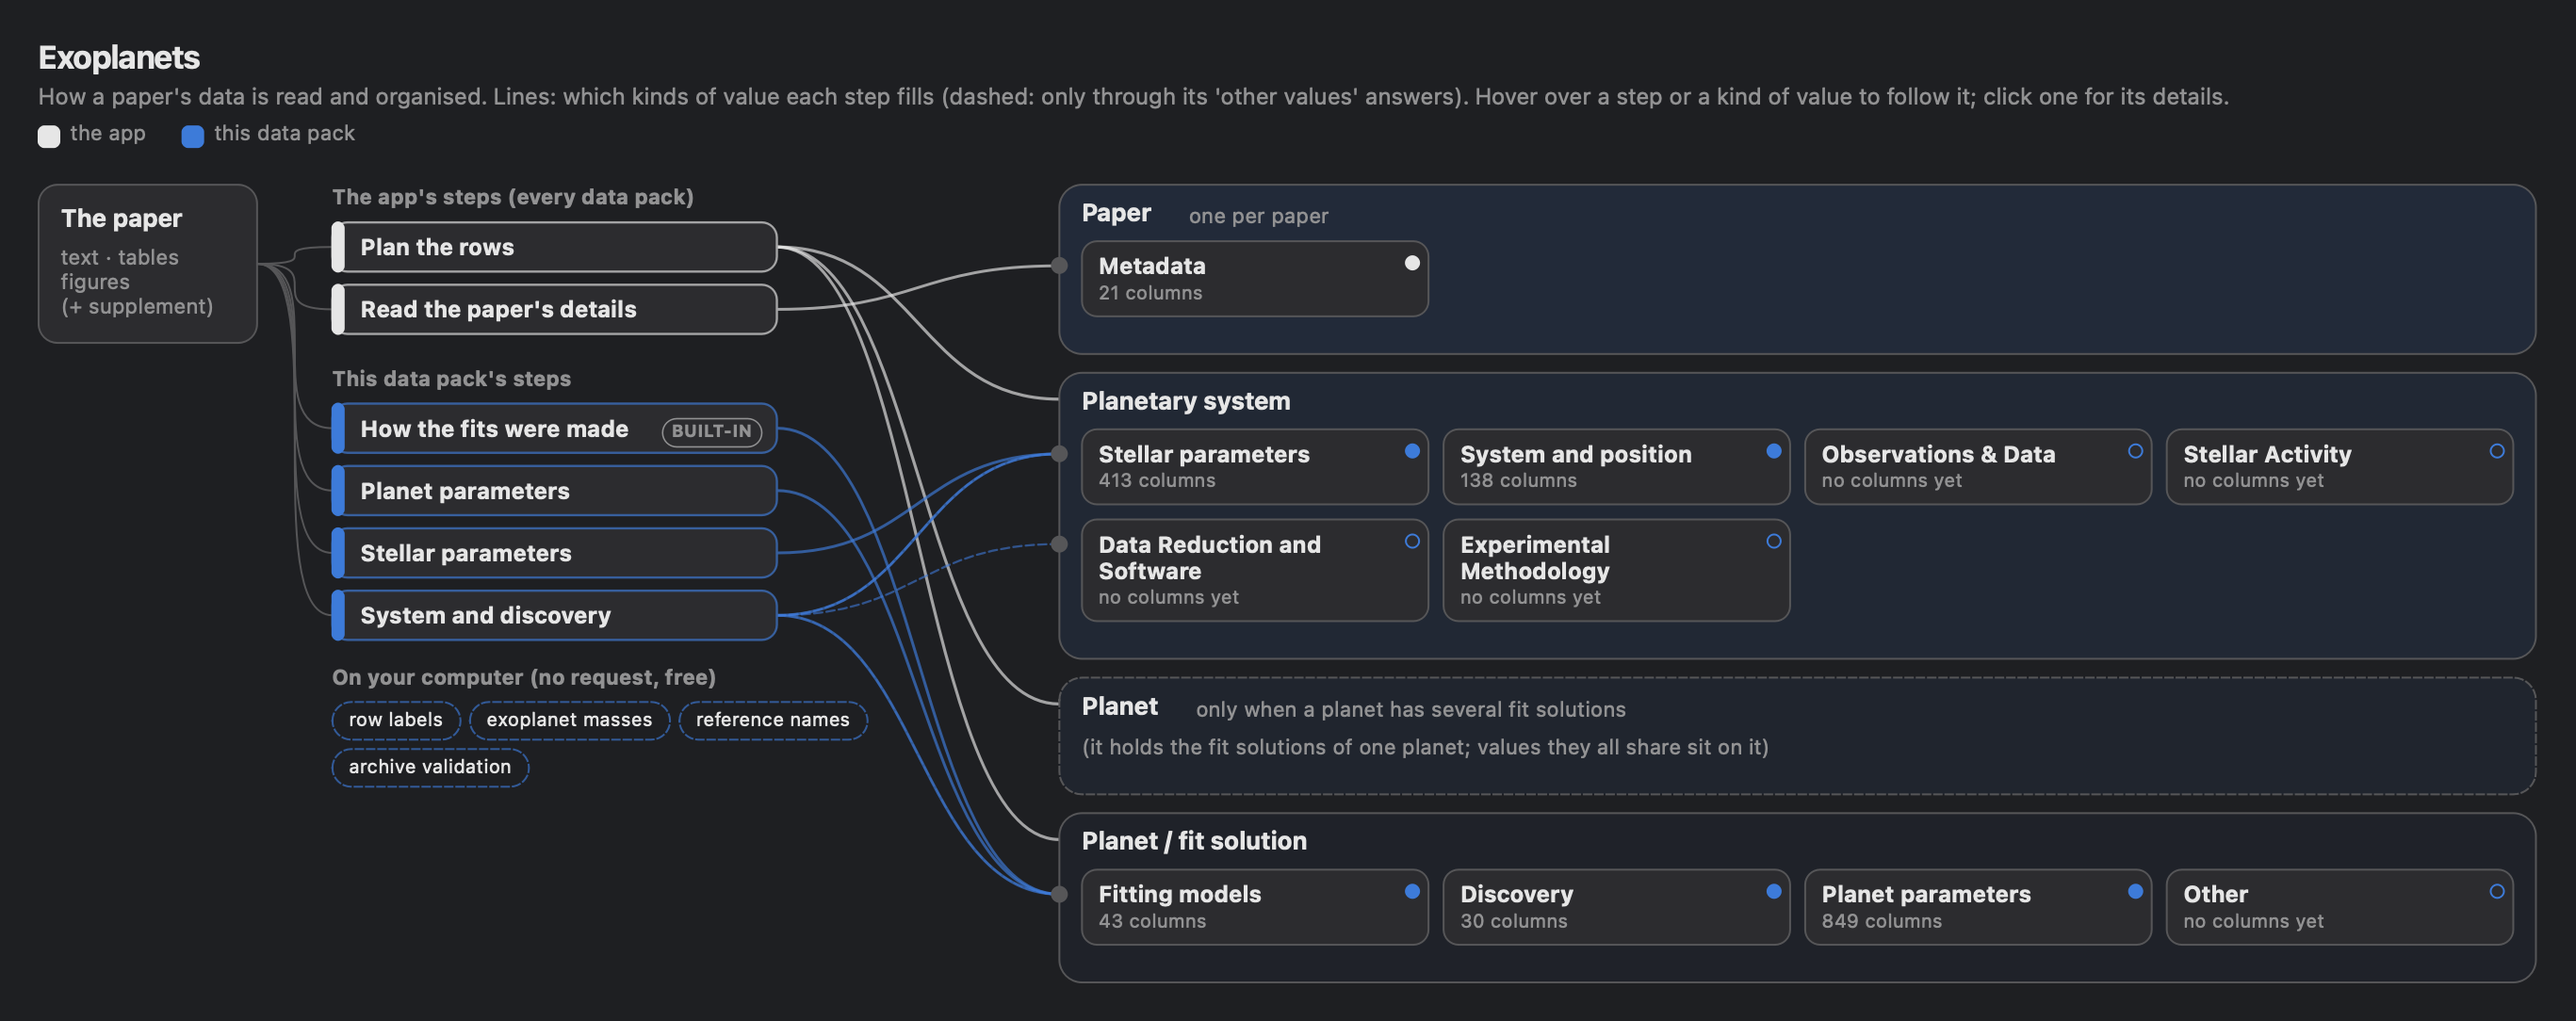
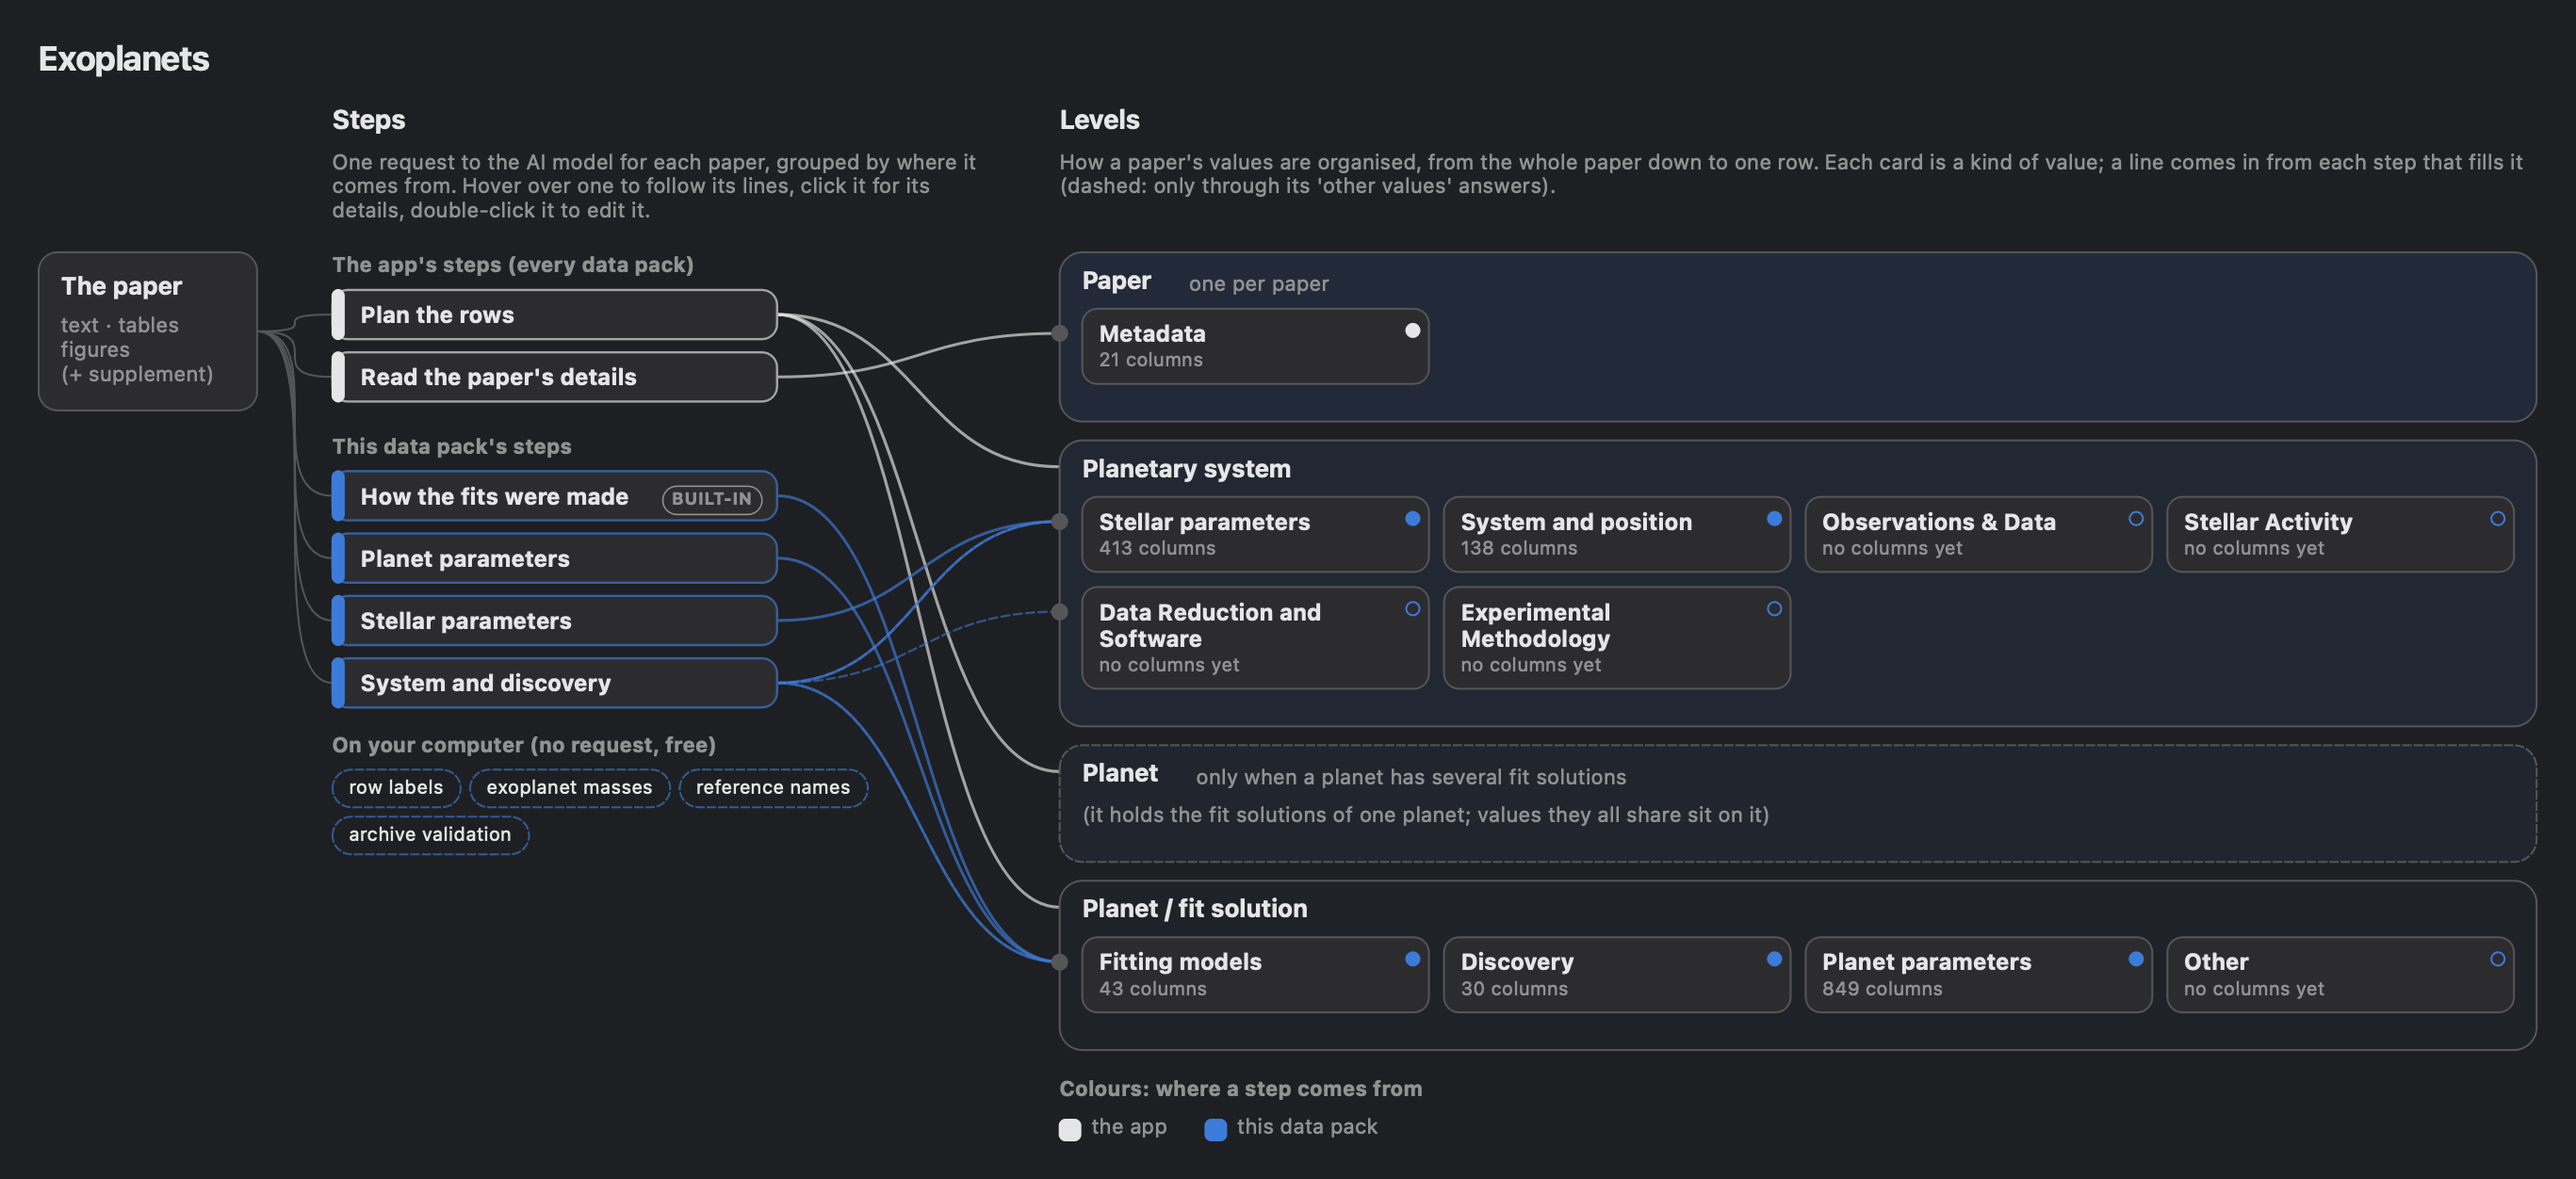
levels-and-facets: Map -- 'Steps' and 'Levels' headings with short descriptions over their columns, the colour legend under the levels

diff --git a/src/parameter_extractor/gui/structure_canvas.py b/src/parameter_extractor/gui/structure_canvas.py
@@ -285,6 +285,11 @@ class _Drawing:
             item.setData(TAGS, frozenset(tags))
 
 
+STEPS_HEAD = ("One request to the AI model for each paper, grouped by where it comes from. Hover over one to "
+              "follow its lines, click it for its details, double-click it to edit it.")
+LEVELS_HEAD = ("How a paper's values are organised, from the whole paper down to one row. Each card is a kind of "
+               "value; a line comes in from each step that fills it (dashed: only through its 'other values' "
+               "answers).")
 STEP_GROUPS = {"app": "The app's steps (every data pack)", "pack": "This data pack's steps",
                "modules": "From linked modules"}
 FILL_TEXT = {"set": "fills in per {set}", "paper": "fills in across the paper", "none": ""}
@@ -334,25 +339,18 @@ def build_scene(pack, palette: Optional[QPalette] = None, opened: Optional[Set[s
     d = _Drawing(scene)
     units = pack.manifest.units or {}
     set_word = units.get("set", "set")
-    width = COL_LANES + LANES_W
     sub_font, sub_h = _font(SUB_PT), QFontMetricsF(_font(SUB_PT)).height()
 
-    # title, what the picture shows, the colours' legend (wrapped to the picture's width)
-    y = d.lines([s.title], COL_PAPER, 0, text, 17, True)
-    y = d.lines(wrap("How a paper's data is read and organised. Lines: which kinds of value each step fills "
-                     "(dashed: only through its 'other values' answers). Hover over a step or a kind of value to "
-                     "follow it; click one for its details.", _font(11.5), width, MANY),
-                COL_PAPER, y + 4, muted, 11.5) + 6
-    x = COL_PAPER
-    for src in ["app", "pack"] + [k for k in colors if k not in ("app", "pack")]:
-        name = "the app" if src == "app" else "this data pack" if src == "pack" else f"module: {src}"
-        w = 18 + QFontMetricsF(_font(10.5)).horizontalAdvance(name) + 18
-        if x + w > width and x > COL_PAPER:
-            x, y = COL_PAPER, y + 20
-        d.box(QRectF(x, y + 3, 11, 11), colors[src], colors[src], radius=3)
-        d.text(name, x + 17, y, muted, 10.5)
-        x += w
-    top = y + 34
+    # the pack's name; over each column its title and what it shows (the same height, so both start level)
+    y = d.lines([s.title], COL_PAPER, 0, text, 18, True) + 14
+    head_font = _font(10.5)
+    heads = [(COL_STEPS, COL_LANES - 40 - COL_STEPS, "Steps", STEPS_HEAD),
+             (COL_LANES, LANES_W, "Levels", LEVELS_HEAD)]
+    wrapped = [wrap(about, head_font, w, MANY) for _x, w, _t, about in heads]
+    for (x, _w, title, _about), lines in zip(heads, wrapped):
+        d.text(title, x, y, text, 14, True)
+        d.lines(lines, x, y + 24, muted, 10.5)
+    top = y + 24 + max(len(lines) for lines in wrapped) * QFontMetricsF(head_font).height() + 16
 
     paper_rect = QRectF(COL_PAPER, top, PAPER_W, 84)
     d.box(paper_rect, card, line, 10).setData(TARGET, "paper")
@@ -495,6 +493,20 @@ def build_scene(pack, palette: Optional[QPalette] = None, opened: Optional[Set[s
                 ports.setdefault(round(port_y), set()).add(key)
             cy += row_h + CARD_GAP
         y += height + 10
+
+    # the colours: where a step comes from (under the levels, where the steps column is usually longer)
+    y += 4
+    d.text("Colours: where a step comes from", COL_LANES, y, muted, 10.5, True)
+    y += 20
+    x = COL_LANES
+    for src in ["app", "pack"] + [k for k in colors if k not in ("app", "pack")]:
+        name = "the app" if src == "app" else "this data pack" if src == "pack" else f"module: {src}"
+        w = 17 + QFontMetricsF(_font(10.5)).horizontalAdvance(name) + 20
+        if x + w > COL_LANES + LANES_W and x > COL_LANES:
+            x, y = COL_LANES, y + 20
+        d.box(QRectF(x, y + 3, 11, 11), colors[src], colors[src], radius=3)
+        d.text(name, x + 17, y, muted, 10.5)
+        x += w
 
     # lines and where they come in
     relations: Dict[str, Set[str]] = {}

diff --git a/src/parameter_extractor/gui/pack_windows.py b/src/parameter_extractor/gui/pack_windows.py
@@ -988,9 +988,8 @@ class PackEditor(QDialog):
         w = QWidget()
         v = QVBoxLayout(w)
         bar = QHBoxLayout()
-        bar.addWidget(_hint("As saved -- Save updates it. Hover over a step or a kind of value to follow it, click it for "
-                            "its details, double-click it to edit it (right-click: more); pinch or Ctrl+scroll to "
-                            "zoom, drag to move."), 1)
+        bar.addWidget(_hint("As saved -- Save updates it. Right-click a part for every place it's edited; pinch or "
+                            "Ctrl+scroll to zoom, drag to move."), 1)
         self.map_canvas = StructureCanvas()
         self.map_canvas.actions_for = self._map_actions
         bar.addWidget(QPushButton("Fit to window", clicked=lambda: self.map_canvas.fit()))

diff --git a/docs/history/2026-11.md b/docs/history/2026-11.md
@@ -2541,3 +2541,11 @@ no request and no CSV.
   window opened on a pack other than the current one.
 - Tests: levels fading, the grouping (tests/test_structure_canvas.py); the window's refill
   (tests/test_columns_categories.py).
+
+## Branch levels-and-facets: Map headings over the columns, the legend under the levels (2026-11-19, Mickey: reorganise the title, the description and the legend above the chart -- a section title over the steps and over the levels with a short description, everything legible fitted)
+
+- The pack's name alone at the top; over the steps "Steps" and over the lanes "Levels", each with a short description
+  (`STEPS_HEAD`, `LEVELS_HEAD`: what they are, hovering / clicking / double-clicking, the dashed lines), set to the
+  same height so both columns start level. The colours' legend ("Colours: where a step comes from") under the
+  levels, wrapped to their width -- the steps column is usually the longer, so it fills space that was empty. The tab's
+  hint above the picture keeps only what the picture doesn't say (Save, right-click, zoom). Checked natively.

diff --git a/docs/history/README.md b/docs/history/README.md
@@ -165,3 +165,4 @@ current month's file (start `YYYY-MM.md` in a new month), with one line here.
 - Branch levels-and-facets: structure canvas, visual pass 2 -- brief opened nodes (2026-11-19, Mickey)
 - Branch levels-and-facets: the kinds of value in the Columns tab; the Map opens the editor's tabs (2026-11-19, Mickey)
 - Branch levels-and-facets: Map steps grouped by source, levels fade on hover; the categories window's leftover controls (2026-11-19, Mickey)
+- Branch levels-and-facets: Map headings over the columns, the legend under the levels (2026-11-19, Mickey)
